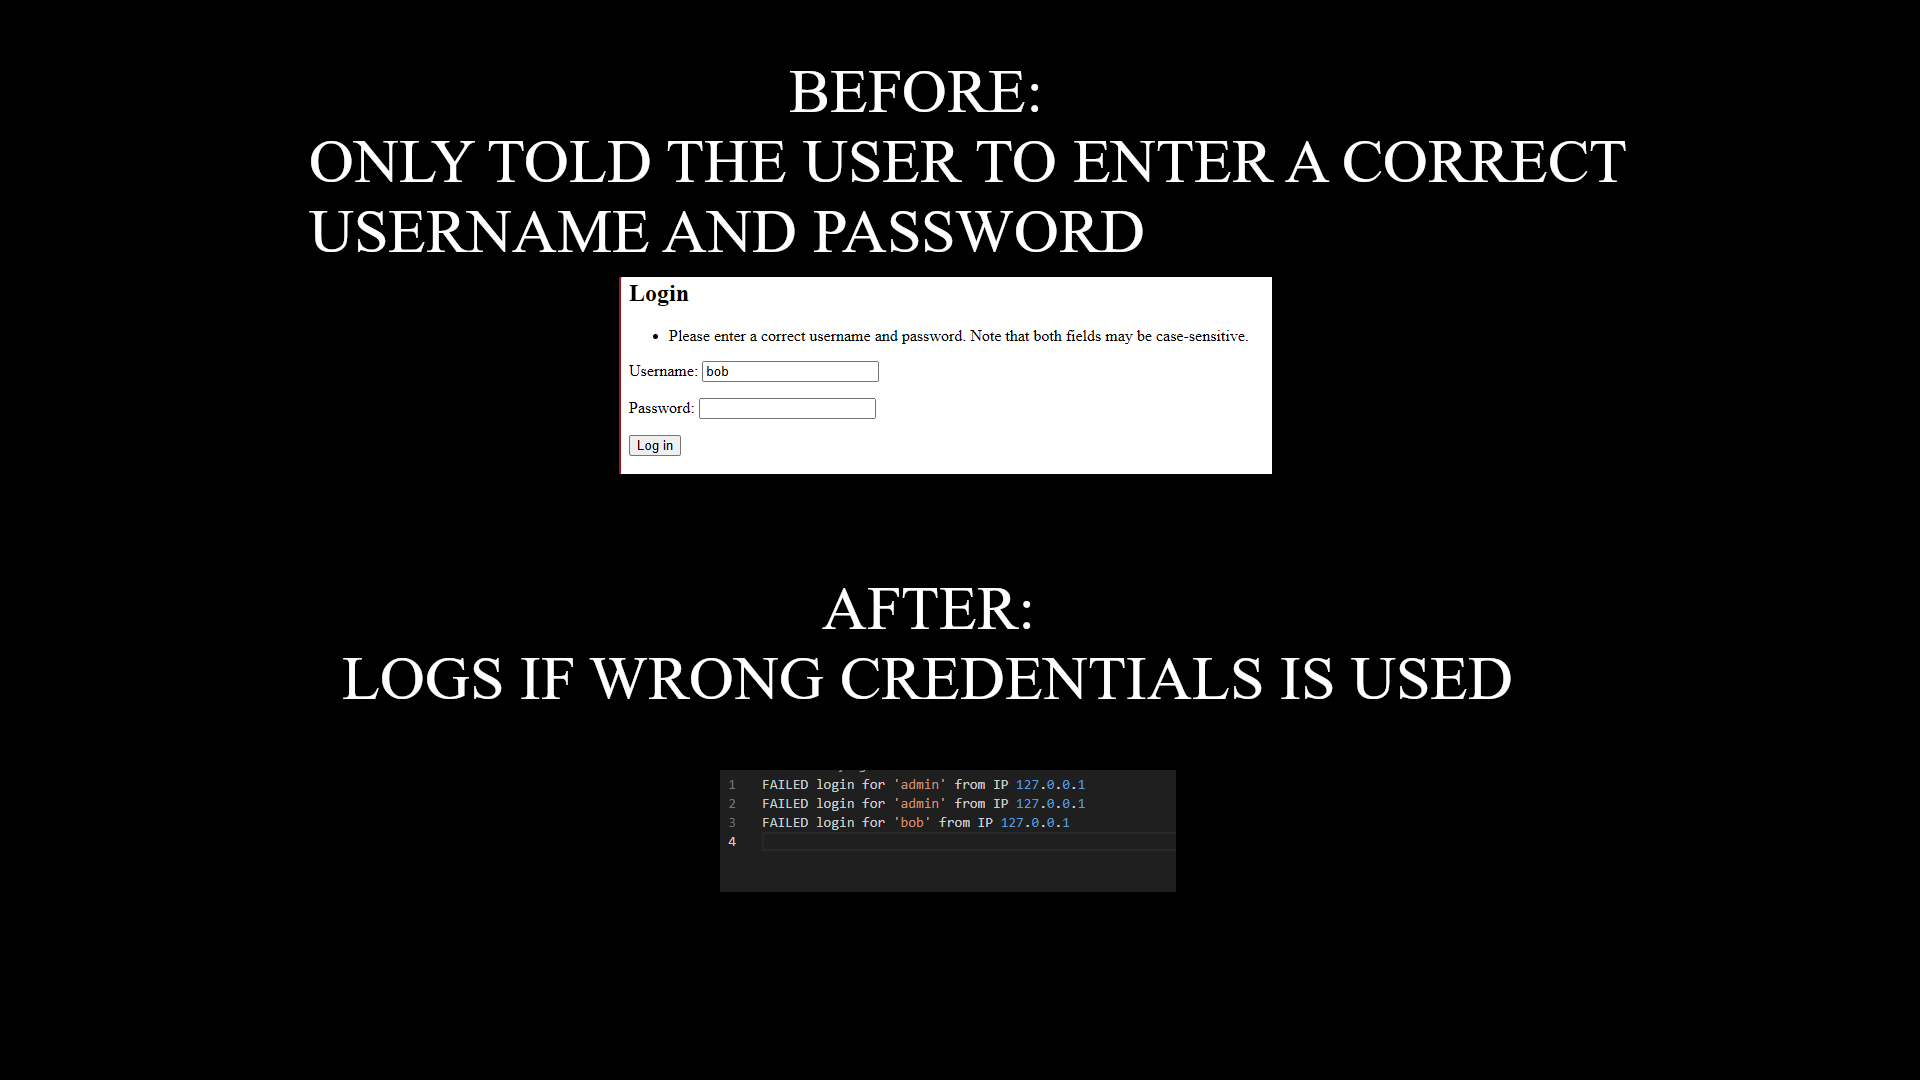
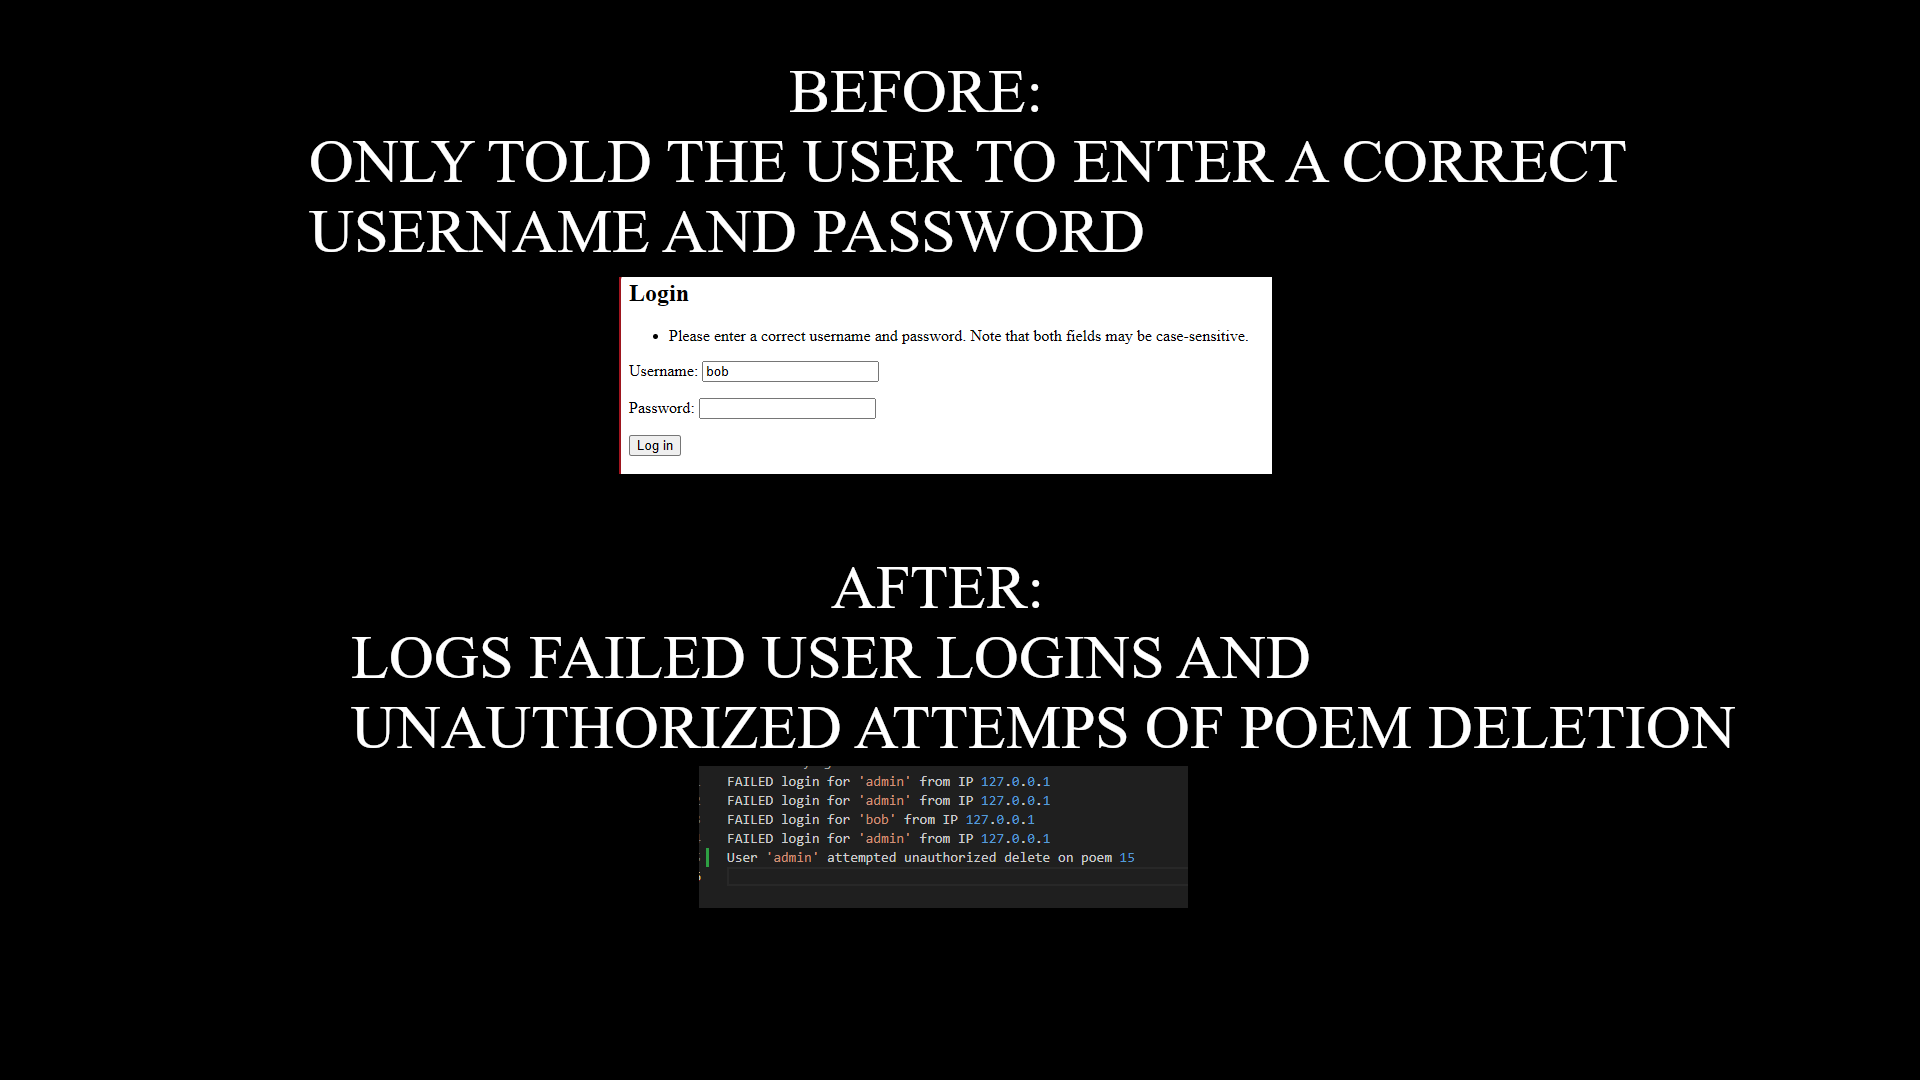
FLAW5

Changed region(s): [[0.1562, 0.5194, 0.9062, 0.8556]]

diff --git a/poemsite/poems/views.py b/poemsite/poems/views.py
@@ -10,7 +10,7 @@ from django.contrib.auth.signals import user_login_failed
 from django.dispatch import receiver
 
 # FLAW 4 A09:2021 – Security Logging and Monitoring Failures: 
-#logger = logging.getLogger('django.security')  
+logger = logging.getLogger('django.security')  
 
 #@receiver(user_login_failed)
 #def log_login_failed(sender, credentials, request, **kwargs):
@@ -42,8 +42,10 @@ def delete_poem(request, poem_id):
     poem = get_object_or_404(Poem, id=poem_id)
 
 # These line of code should be added so only the poem author can delete the poem
-   # if poem.author != request.user:
-    #    return HttpResponseForbidden("You are not allowed to delete this poem.")
+    #if poem.author != request.user:
+    # FLAW 4: A09:2021 – Security Logging and Monitoring Failures. With this unauthorized delete attempts are logged.
+     #   logger.warning(f"User '{request.user}' attempted unauthorized delete on poem {poem.id}")
+      #  return HttpResponseForbidden("You are not allowed to delete this poem.")
 
     if request.method == 'POST':
         poem.delete()
@@ -55,10 +57,13 @@ def poem_detail(request, poem_id):
     poem = get_object_or_404(Poem, id=poem_id)
     return render(request, 'poems/poem_detail.html', {'poem': poem})
 
-@login_required
+# FLAW 5: A03:2021 – Injection and A02:2021 – Cryptographic Failures
+#@login_required <--- add this line so only logged in users can use this function
 def unsafe_search(request):
     title = request.GET.get('q', '')
     with connection.cursor() as cursor:
+        #next line of code must be replcaed with cursor.execute("SELECT * FROM poems_poem WHERE title = %s", [title])
+        #that way you can't get the poems
         cursor.execute(f"SELECT * FROM poems_poem WHERE title = '{title}'")
         results = cursor.fetchall()
     return HttpResponse(str(results))

diff --git a/poemsite/poemsite/settings.py b/poemsite/poemsite/settings.py
@@ -9,30 +9,31 @@ https://docs.djangoproject.com/en/5.2/topics/settings/
 For the full list of settings and their values, see
 https://docs.djangoproject.com/en/5.2/ref/settings/
 """
-import os
+#import os
 from pathlib import Path
 
 # Build paths inside the project like this: BASE_DIR / 'subdir'.
 BASE_DIR = Path(__file__).resolve().parent.parent
 
-LOGGING = {
-    'version': 1,
-    'disable_existing_loggers': False,
-    'handlers': {
-        'security_file': {
-            'level': 'WARNING',
-            'class': 'logging.FileHandler',
-            'filename': os.path.join(BASE_DIR, 'security.log'),
-        },
-    },
-    'loggers': {
-        'django.security': {
-            'handlers': ['security_file'],
-            'level': 'WARNING',
-            'propagate': False,
-        },
-    },
-}
+# FLAW 4 A09:2021 – Security Logging and Monitoring Failures: 
+#LOGGING = {
+#    'version': 1,
+#    'disable_existing_loggers': False,
+#    'handlers': {
+#        'security_file': {
+#            'level': 'WARNING',
+#            'class': 'logging.FileHandler',
+#            'filename': os.path.join(BASE_DIR, 'security.log'),
+#        },
+#    },
+#    'loggers': {
+#        'django.security': {
+#            'handlers': ['security_file'],
+#            'level': 'WARNING',
+#            'propagate': False,
+#        },
+#    },
+#}
 
 # Quick-start development settings - unsuitable for production
 # See https://docs.djangoproject.com/en/5.2/howto/deployment/checklist/
